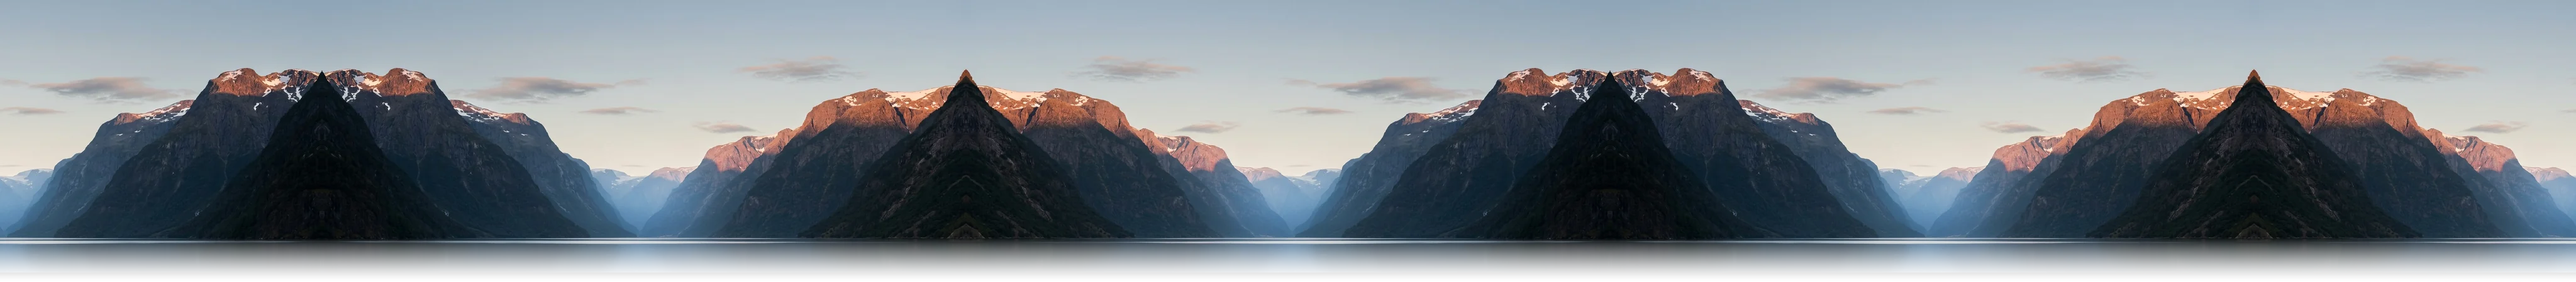
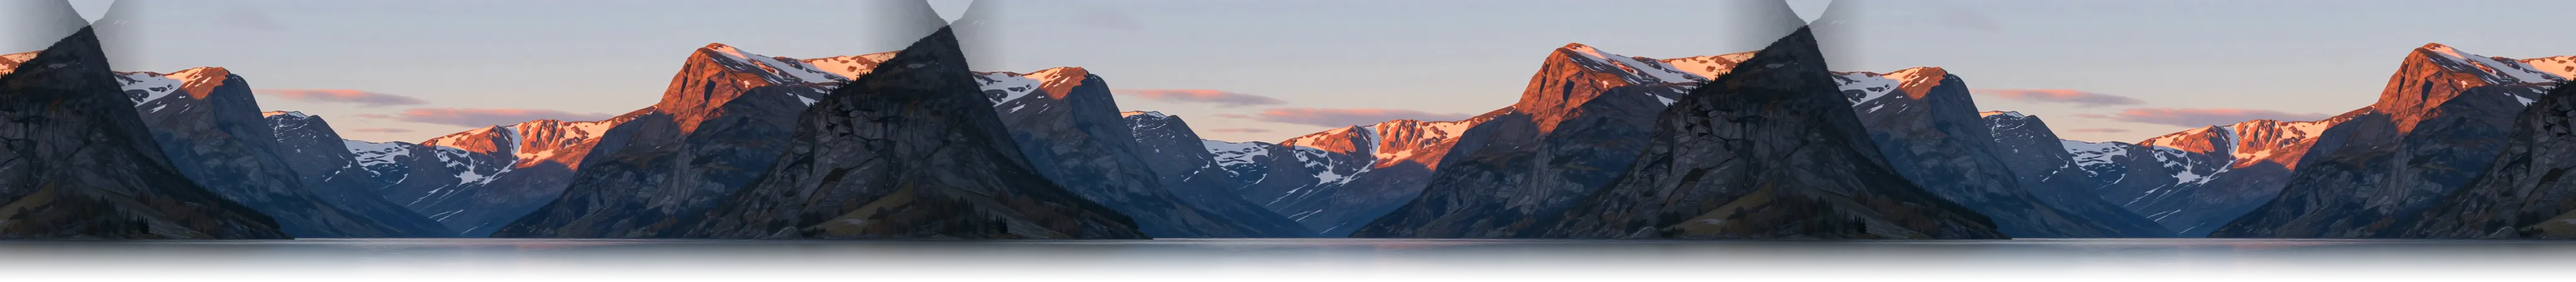
Fiordo pintado con el estilo de los héroes, con suelo y agua pintados en 3D (0.98.0) (#108)
Claude-Session: https://claude.ai/code/session_01YU6HPKNqDAini2Aa6w3kXk

diff --git a/src/carrera.js b/src/carrera.js
@@ -22,6 +22,8 @@ const SPRINT_M = 250;
 // - colores: lo que se pinta mientras cargan las imágenes y las partes que no son imagen (agua, tierra).
 // El fiordo (v0.62.0) y la laguna (v0.64.0) ya no salen de Blender: panorama, costa y piezas son imágenes realistas
 // generadas aparte, recortadas del fondo magenta y montadas con las mismas medidas (prompts en docs/PAISAJES_REALISTAS.md).
+// Desde la 0.98.0 el fiordo está pintado con el mismo motor y estilo que los héroes, y su vista 3D lleva suelo y agua
+// pintados (suelo3d y aguaTextura3d, ver franjas3d) en lugar de colores planos.
 export const PAISAJES = {
   fiordo: {
     nombre: 'Fiordo nórdico',
@@ -30,6 +32,9 @@ export const PAISAJES = {
     miniatura: 'assets/carrera/fiordo_mini.webp',
     panorama: { src: 'assets/carrera/fiordo.webp', horizonte: 379 },
     costa: 'assets/carrera/costa.webp',
+    // Texturas pintadas del suelo de las orillas y del agua de la vista 3D (m = metros que cubre cada repetición)
+    suelo3d: { src: 'assets/carrera/fiordo_suelo.webp', m: 8 },
+    aguaTextura3d: { src: 'assets/carrera/fiordo_agua.webp', m: 10 },
     orilla: {
       src: 'assets/carrera/orilla.webp',
       piezas: {
@@ -298,6 +303,8 @@ function coloreada(im, filtro) {
   porFiltro.set(filtro, copia);
   return copia;
 }
+// La imagen con el filtro de color de la variante ya aplicado (o la misma si no hay filtro o no se puede).
+const conTinte = (im) => (im && paisaje.filtro ? coloreada(im, paisaje.filtro) || im : im);
 function conFiltro(ctx, im, dibujar) {
   if (!paisaje.filtro || !('filter' in ctx)) { dibujar(im); return; }
   const copia = coloreada(im, paisaje.filtro);
@@ -306,6 +313,85 @@ function conFiltro(ctx, im, dibujar) {
   ctx.filter = paisaje.filtro;
   dibujar(im);
   ctx.filter = antes;
+}
+// Pinta una textura sobre el plano del agua o del suelo en perspectiva, en franjas de profundidad: cada franja es un
+// trapecio relleno con un patrón cuya transformación copia la escala de esa profundidad. ~26 franjas por zona.
+const patrones = new WeakMap();
+function franjas3d(ctx, P, camZ, tex, metros, lado, ancho, alto, cx, fx) {
+  let pat = patrones.get(tex);
+  if (!pat) { pat = ctx.createPattern(tex, 'repeat'); patrones.set(tex, pat); }
+  if (!pat || !pat.setTransform || typeof DOMMatrix === 'undefined') return;
+  const tw = tex.naturalWidth || tex.width;
+  const th = tex.naturalHeight || tex.height;
+  ctx.fillStyle = pat;
+  let z0 = camZ + 1.2;
+  // Solo hasta 140 m: más lejos la bruma lo tapa y basta el color de fondo. Franjas cada vez más largas (×1,5).
+  const hasta = camZ + 140;
+  while (z0 < hasta) {
+    const z1 = Math.min(hasta, camZ + (z0 - camZ) * 1.5 + 0.6);
+    const a = P(0, z0);
+    const b = P(0, z1);
+    if (!a || !b) break;
+    const zm = (z0 + z1) / 2;
+    const m = P(0, zm);
+    const sx = (fx / m.d) * (metros / tw);
+    const sy = -((a.y - b.y) / (z1 - z0)) * (metros / th);
+    pat.setTransform(new DOMMatrix([sx, 0, 0, sy, cx, m.y - sy * ((zm / metros) * th)]));
+    ctx.beginPath();
+    if (lado) {
+      const ia = P(lado.borde, z0);
+      const ib = P(lado.borde, z1);
+      const fuera = lado.s < 0 ? Math.min(0, ia.x) - 2 : Math.max(ancho, ia.x) + 2;
+      ctx.moveTo(ia.x, a.y + 1); ctx.lineTo(ib.x, b.y); ctx.lineTo(fuera, b.y); ctx.lineTo(fuera, a.y + 1);
+    } else {
+      ctx.rect(0, b.y, ancho, a.y - b.y + 1);
+    }
+    ctx.fill();
+    z0 = z1;
+  }
+}
+// Lienzo reutilizable para el plano del agua y el suelo de la vista 3D, a 1 píxel por punto.
+let plano3d = null;
+function lienzoPlano(ancho, alto) {
+  if (typeof document === 'undefined') return null;
+  const w = Math.max(1, Math.ceil(ancho));
+  const h = Math.max(1, Math.ceil(alto));
+  if (!plano3d) {
+    const lienzo = document.createElement('canvas');
+    plano3d = { lienzo, ctx: lienzo.getContext('2d') };
+  }
+  if (plano3d.lienzo.width !== w || plano3d.lienzo.height !== h) { plano3d.lienzo.width = w; plano3d.lienzo.height = h; }
+  return plano3d.ctx ? plano3d : null;
+}
+// Color medio del pie del panorama (las filas justo sobre el horizonte), para que la bruma lejana case con él.
+const pies = new WeakMap();
+function colorPie(im, horizonte) {
+  if (pies.has(im)) return pies.get(im);
+  let c = null;
+  try {
+    const l = document.createElement('canvas');
+    l.width = 64; l.height = 1;
+    const x = l.getContext('2d', { willReadFrequently: true });
+    x.drawImage(im, 0, horizonte - 24, im.naturalWidth || im.width, 20, 0, 0, 64, 1);
+    const d = x.getImageData(0, 0, 64, 1).data;
+    c = [0, 1, 2].map((k) => { let t = 0; for (let i = 0; i < 64; i++) t += d[i * 4 + k]; return Math.round(t / 64); });
+  } catch { c = null; }
+  pies.set(im, c);
+  return c;
+}
+// Suelo de las orillas: lejos se funde con la bruma del cielo y cerca se oscurece, para que no se vea como un
+// color plano junto a las imágenes pintadas.
+function degradadoSuelo(ctx, color, y0, alto) {
+  const g = ctx.createLinearGradient(0, y0, 0, alto);
+  g.addColorStop(0, mezclar(color, paisaje.colores.cielo3d[1], 0.55));
+  g.addColorStop(0.35, color);
+  g.addColorStop(1, mezclar(color, '#000000', 0.35));
+  return g;
+}
+function mezclar(a, b, t) {
+  const n = (c) => [1, 3, 5].map((i) => parseInt(c.slice(i, i + 2), 16));
+  const [x, y] = [n(a), n(b)];
+  return `rgb(${x.map((v, i) => Math.round(v + (y[i] - v) * t)).join(',')})`;
 }
 export function usarPaisaje(id) { paisaje = PAISAJES[id] || PAISAJES.fiordo; }
 
@@ -1740,11 +1826,18 @@ function pintar3d(c, { ctx, ancho, alto }, { botes, t, ritmo, referencias = [], 
   cielo.addColorStop(1, paisaje.colores.cielo3d[1]);
   ctx.fillStyle = cielo;
   ctx.fillRect(0, 0, ancho, horizonte);
-  const agua = ctx.createLinearGradient(0, horizonte, 0, alto);
+  const texAgua = conTinte(paisaje.aguaTextura3d && imagen(paisaje.aguaTextura3d.src));
+  const texSuelo = conTinte(paisaje.suelo3d && imagen(paisaje.suelo3d.src));
+  // Con texturas pintadas, el plano (agua, arena y suelo) se pinta en un lienzo aparte a 1 píxel por punto y se
+  // copia escalado: las franjas con patrón son lo caro y así se pinta 4 veces menos en un teléfono de densidad 2.
+  const plano = texAgua || texSuelo ? lienzoPlano(ancho, alto - horizonte) : null;
+  const pc = plano ? plano.ctx : ctx;
+  if (plano) pc.setTransform(1, 0, 0, 1, 0, -horizonte);
+  const agua = pc.createLinearGradient(0, horizonte, 0, alto);
   agua.addColorStop(0, paisaje.colores.agua3d[0]);
   agua.addColorStop(1, paisaje.colores.agua3d[1]);
-  ctx.fillStyle = agua;
-  ctx.fillRect(0, horizonte, ancho, alto - horizonte);
+  pc.fillStyle = agua;
+  pc.fillRect(0, horizonte, ancho, alto - horizonte);
   const fiordo = imagen(paisaje.panorama.src);
   if (fiordo) {
     // 360° del panorama = 2π·f píxeles, con el horizonte de la imagen sobre el del lienzo y el frente centrado.
@@ -1763,12 +1856,14 @@ function pintar3d(c, { ctx, ancho, alto }, { botes, t, ritmo, referencias = [], 
     ctx.lineTo(ancho, horizonte);
     ctx.fill();
   }
+  // Agua pintada en perspectiva (franjas con la textura repetida) cuando el paisaje la tiene.
+  if (texAgua) franjas3d(pc, P, camZ, texAgua, paisaje.aguaTextura3d.m, null, ancho, alto, cx, fx);
   // Reflejo del cielo cerca del horizonte
-  const reflejo = ctx.createLinearGradient(0, horizonte, 0, horizonte + alto * 0.12);
+  const reflejo = pc.createLinearGradient(0, horizonte, 0, horizonte + alto * 0.12);
   reflejo.addColorStop(0, `rgba(${paisaje.colores.reflejo},0.12)`);
   reflejo.addColorStop(1, `rgba(${paisaje.colores.reflejo},0)`);
-  ctx.fillStyle = reflejo;
-  ctx.fillRect(0, horizonte, ancho, alto * 0.12);
+  pc.fillStyle = reflejo;
+  pc.fillRect(0, horizonte, ancho, alto * 0.12);
 
   // Orillas (franjas a los lados del canal) con arena en el borde
   const lejos = 400;
@@ -1780,18 +1875,31 @@ function pintar3d(c, { ctx, ancho, alto }, { botes, t, ritmo, referencias = [], 
     const a2 = P(borde + s * 0.8, camZ + 1.2);
     if (!a || !b || !a2) continue;
     // Se usan los puntos proyectados de verdad: con la cámara alta el borde cercano cae muy por debajo del lienzo.
-    ctx.fillStyle = paisaje.colores.arena3d;
-    ctx.beginPath();
-    ctx.moveTo(a.x, a.y); ctx.lineTo(b.x, b.y); ctx.lineTo(a2.x, a2.y); ctx.fill();
+    pc.fillStyle = degradadoSuelo(pc, paisaje.colores.arena3d, b.y, alto);
+    pc.beginPath();
+    pc.moveTo(a.x, a.y); pc.lineTo(b.x, b.y); pc.lineTo(a2.x, a2.y); pc.fill();
     const lado = s < 0 ? Math.min(0, a2.x) : Math.max(ancho, a2.x);
-    ctx.fillStyle = paisaje.colores.tierra3d;
-    ctx.beginPath();
-    ctx.moveTo(lado, Math.max(alto, a2.y));
-    ctx.lineTo(a2.x, a2.y);
-    ctx.lineTo(b.x, b.y);
-    ctx.lineTo(lado, b.y);
-    ctx.fill();
+    pc.fillStyle = degradadoSuelo(pc, paisaje.colores.tierra3d, b.y, alto);
+    pc.beginPath();
+    pc.moveTo(lado, Math.max(alto, a2.y));
+    pc.lineTo(a2.x, a2.y);
+    pc.lineTo(b.x, b.y);
+    pc.lineTo(lado, b.y);
+    pc.fill();
+    if (texSuelo) franjas3d(pc, P, camZ, texSuelo, paisaje.suelo3d.m, { borde: borde + s * 0.8, s }, ancho, alto, cx, fx);
   }
+  // Bruma sobre el suelo y el agua lejanos: une las texturas con el pie del panorama.
+  if (plano) {
+    const bruma = pc.createLinearGradient(0, horizonte, 0, horizonte + (alto - horizonte) * 0.35);
+    const [r, g, b] = (fiordo && colorPie(conTinte(fiordo), paisaje.panorama.horizonte))
+      || [1, 3, 5].map((i) => parseInt(paisaje.colores.cielo3d[1].slice(i, i + 2), 16));
+    bruma.addColorStop(0, `rgba(${r},${g},${b},0.85)`);
+    bruma.addColorStop(1, `rgba(${r},${g},${b},0)`);
+    pc.fillStyle = bruma;
+    pc.fillRect(0, horizonte, ancho, (alto - horizonte) * 0.35);
+  }
+
+  if (plano) ctx.drawImage(plano.lienzo, 0, 0, plano.lienzo.width, plano.lienzo.height, 0, horizonte, ancho, alto - horizonte);
 
   // Olas
   if (!sinMovimiento) {

diff --git a/sw.js b/sw.js
@@ -15,7 +15,8 @@ const HEROES = CLASES.flatMap((c) => RANGOS.flatMap((r) => [`assets/heroes/${c}_
 // los rivales. Cada paisaje comprado (~70-200 KB) se descarga al comprarlo y al abrir la app, con el mensaje
 // «precargar» (ver precargarRecursos en src/pantallas/heroe.js); sin él se dibujan las formas sencillas.
 const MINIATURAS = ['fiordo', 'laguna', 'canon', 'otono', 'cerezos', 'glaciar', 'mediterraneo'].map((p) => `assets/carrera/${p}_mini.webp`);
-const PAISAJE = ['assets/carrera/fiordo.webp', 'assets/carrera/orilla.webp', 'assets/carrera/costa.webp', ...MINIATURAS,
+const PAISAJE = ['assets/carrera/fiordo.webp', 'assets/carrera/orilla.webp', 'assets/carrera/costa.webp',
+  'assets/carrera/fiordo_suelo.webp', 'assets/carrera/fiordo_agua.webp', ...MINIATURAS,
   'assets/carrera/rival_vikingo.webp'];
 // Los vídeos de la vista realista (~1,2 MB) son de una clase: no se precargan al instalar. La app los pide con un
 // mensaje «precargar» cuando tu héroe es de esa clase (ver src/app.js).

diff --git a/src/version.js b/src/version.js
@@ -1,2 +1,2 @@
 // Versión de la app: la misma que la caché del service worker (sw.js). Súbela al publicar cambios.
-export const VERSION = '0.97.0';
+export const VERSION = '0.98.0';

diff --git a/tools/paisaje-pintado/piezas.py b/tools/paisaje-pintado/piezas.py
@@ -1,0 +1,53 @@
+from PIL import Image
+import numpy as np, colorsys
+im=np.asarray(Image.open('/root/sd/out/piezas.png').convert('RGB')).astype(np.float32)
+bg=np.median(np.concatenate([im[:8].reshape(-1,3),im[-8:].reshape(-1,3),im[:,:8].reshape(-1,3)]),axis=0)
+print('fondo',bg)
+d=np.sqrt(((im-bg)**2).sum(-1))
+alpha=np.clip((d-60)/50,0,1)
+# quitar el tinte magenta de los bordes
+sp=im.copy(); g=sp[...,1]; lim=np.maximum(sp[...,0],sp[...,2])
+m=(1-alpha)[...,None]*0.0
+mx=np.minimum(sp[...,0],sp[...,2]); exceso=np.clip(mx-g,0,None)
+w=(alpha<0.98)
+sp[...,0]-=exceso*1.0; sp[...,2]-=exceso*1.0
+rgba=np.dstack([sp.clip(0,255),alpha*255]).astype(np.uint8)
+I=Image.fromarray(rgba,'RGBA')
+objs={}
+names=[['abeto1','abeto2','abedul'],['casa','roca','juncos']]
+for r in range(2):
+  for c in range(3):
+    cell=rgba[r*520:(r+1)*520 if r==0 else 768, c*256:(c+1)*256]
+    ys,xs=np.where(cell[...,3]>40)
+    box=(c*256+xs.min(), r*520+ys.min(), c*256+xs.max()+1, r*520+ys.max()+1)
+    cr=np.asarray(I.crop(box)).copy()
+    import cv2
+    n,lab,st,_=cv2.connectedComponentsWithStats((cr[...,3]>20).astype(np.uint8),8)
+    if n>1:
+      big=1+int(np.argmax(st[1:,cv2.CC_STAT_AREA]))
+      keep=np.isin(lab,[i for i in range(1,n) if st[i,cv2.CC_STAT_AREA]>=0.02*st[big,cv2.CC_STAT_AREA]])
+      cr[...,3]=np.where(keep,cr[...,3],0)
+    objs[names[r][c]]=Image.fromarray(cr,'RGBA')
+# abedul verde: girar el tono del follaje
+b=np.asarray(objs['abedul']).astype(np.float32)/255
+import colorsys
+hsv=np.array(Image.fromarray((b[...,:3]*255).astype(np.uint8)).convert('HSV')).astype(np.int32)
+hsv[...,0]=np.where(hsv[...,1]>80,(hsv[...,0]+30)%256,hsv[...,0])
+v=np.array(Image.fromarray(hsv.astype(np.uint8),'HSV').convert('RGB'))
+v=(v*0.8+np.array(Image.fromarray(v).convert('L'))[...,None]*0.2).astype(np.uint8)
+objs['abedul_verde']=Image.fromarray(np.dstack([v,(b[...,3]*255).astype(np.uint8)]),'RGBA')
+P={'pino_alto':('abeto1',0,0,410,825,.5,.97),'pino_medio':('abeto2',412,0,332,601,.5,.97),'abedul':('abedul',746,0,176,575,.5,.985),
+ 'abedul_verde':('abedul_verde',0,827,142,460,.5,.985),'pino_bajo':('abeto1',144,827,213,412,.5,.965),'casa':('casa',359,827,529,334,.5,.9),
+ 'roca_grande':('roca',0,1289,355,158,.5,.82),'juncos':('juncos',357,1289,84,102,.5,.95),'roca':('roca',443,1289,211,96,.5,.86)}
+at=Image.new('RGBA',(1024,1447),(0,0,0,0))
+for k,(o,x,y,W,H,px,py) in P.items():
+  ob=objs[o]
+  if k=='roca_grande': ob=ob.resize((int(ob.width*1.8),ob.height))
+  if k in('abedul','abedul_verde'): ob=ob.resize((int(ob.width*0.7),ob.height))
+  if k=='roca': ob=ob.resize((int(ob.width*1.6),int(ob.height*0.8)))
+  s=min(W/ob.width, H*py/ob.height)
+  ob=ob.resize((max(1,int(ob.width*s)),max(1,int(ob.height*s))),Image.LANCZOS)
+  ox=x+int(W*px-ob.width/2); oy=y+int(H*py)-ob.height
+  at.alpha_composite(ob,(ox,oy))
+at.save('/root/sd/montaje/orilla.webp',quality=74)
+prev=Image.new('RGBA',at.size,(40,60,50,255)); prev.alpha_composite(at); prev.convert('RGB').resize((512,723)).save('/root/sd/montaje/orilla_prev.png')

diff --git a/tools/paisaje-pintado/panorama.py b/tools/paisaje-pintado/panorama.py
@@ -1,0 +1,15 @@
+from PIL import Image
+import numpy as np
+im=np.asarray(Image.open('/root/sd/out/panorama.png').convert('RGB')).astype(np.float32)
+h,w,_=im.shape; B=200
+# hacer repetible: mezclar el final con el principio
+a=np.linspace(0,1,B)[None,:,None]
+t=im[:, :w-B].copy()
+t[:, :B]=im[:, :B]*a+im[:, w-B:]*(1-a)
+tile=np.concatenate([t,t,t],axis=1)
+o=Image.fromarray(tile.clip(0,255).astype(np.uint8)).resize((4096,449),Image.LANCZOS)
+o.save('/root/sd/montaje/fiordo.webp',quality=80)
+o.resize((1024,112)).save('/root/sd/montaje/pan_preview.png')
+al=np.load('/root/sd/montaje/alpha_fiordo.npy')
+rgba=np.dstack([np.asarray(o), np.repeat(al[:,None],4096,axis=1).astype(np.uint8)])
+Image.fromarray(rgba,'RGBA').save('/root/sd/montaje/fiordo.webp',quality=80)

diff --git a/tools/paisaje-pintado/texturas.py b/tools/paisaje-pintado/texturas.py
@@ -1,0 +1,12 @@
+from PIL import Image
+import numpy as np
+def sin_costura(im):
+  a=np.asarray(im).astype(np.float32); h,w,_=a.shape
+  s=np.roll(np.roll(a,h//2,0),w//2,1)
+  y=np.abs(np.linspace(-1,1,h))[:,None]; x=np.abs(np.linspace(-1,1,w))[None,:]
+  m=np.clip((1-np.maximum(x,y))*3,0,1)[...,None]
+  return Image.fromarray((a*m+s*(1-m)).clip(0,255).astype(np.uint8))
+s=Image.open('/root/sd/out/suelo.png').convert('RGB')
+sin_costura(s).resize((256,256),Image.LANCZOS).save('/root/sd/montaje/fiordo_suelo.webp',quality=78)
+a=Image.open('/root/sd/out/agua.png').convert('RGB').crop((0,200,512,512)).resize((512,512))
+sin_costura(a).resize((256,256),Image.LANCZOS).save('/root/sd/montaje/fiordo_agua.webp',quality=78)

diff --git a/tools/paisaje-pintado/costa.py b/tools/paisaje-pintado/costa.py
@@ -1,0 +1,7 @@
+from PIL import Image
+import numpy as np
+im=np.asarray(Image.open('/root/sd/out/costa.png').convert('RGB'))[:240].astype(np.float32)
+h,w,_=im.shape; B=120
+a=np.linspace(0,1,B)[None,:,None]
+t=im[:, :w-B].copy(); t[:, :B]=im[:, :B]*a+im[:, w-B:]*(1-a)
+Image.fromarray(t.astype(np.uint8)).resize((1536,345),Image.LANCZOS).save('/root/sd/montaje/costa.webp',quality=80)

diff --git a/docs/PAISAJES_REALISTAS.md b/docs/PAISAJES_REALISTAS.md
@@ -159,3 +159,20 @@ Photorealistic top-down orthographic photo of very clear shallow tropical lagoon
 Photorealistic top-down orthographic photo of a thin irregular line of white sea foam where gentle waves wash onto white sand, the foam line running horizontally across the whole image, lacy bubbles and thin wet sand film, isolated on a plain solid flat black background (#000000) above and below the foam, no sand texture outside the foam. Seamless horizontally tileable. No text, no watermark.
 ```
 (Genera 3 versiones con la misma frase para la animación.)
+
+# Fiordo pintado (0.98.0)
+
+Desde la 0.98.0 el fiordo se pinta con el mismo motor y estilo que los héroes: stable-diffusion.cpp con Z-Image Turbo
+(Q8_0), en CPU, ~25 min por imagen. Los guiones están en `tools/paisaje-pintado/`:
+
+| Guion | Qué hace |
+|---|---|
+| `gen.sh` | Genera el panorama (1344×448), la costa 2D (1024×320) y una lámina de piezas sobre magenta (768×768) |
+| `gen2.sh` | Genera las texturas de suelo y agua (512×512) |
+| `panorama.py` | Hace el panorama repetible, lo lleva a 4096×449 y le copia la transparencia bajo el horizonte del original |
+| `costa.py` | Recorta la orilla, la hace repetible y la lleva a 1536×345 |
+| `piezas.py` | Quita el magenta, separa las piezas y monta el atlas de orilla con los mismos recortes, pies y alturas |
+| `texturas.py` | Hace las texturas repetibles en los dos ejes y las deja a 256×256 |
+
+Prefijo de estilo de todas: `Semi-realistic detailed digital painting, realistic proportions, painterly rendering,
+crisp dark outline, high quality fantasy RPG art.` Para los demás paisajes se cambia solo la escena.

diff --git a/CHANGELOG.md b/CHANGELOG.md
@@ -2,6 +2,15 @@
 
 Lo que cambia en cada versión de Rower. La versión de la app vive en `src/version.js`; esta lista empieza siempre por esa versión (lo comprueba `pruebas/version.test.mjs`).
 
+## 0.98.0 · 2026-11-22
+
+El fiordo, repintado con el mismo estilo que los héroes.
+
+- **Paisaje pintado.** Montañas al atardecer, pinos, abedules, cabaña, rocas y juncos pintados con el mismo motor y la misma mano que los retratos nuevos. El panorama ya no se ve espejado.
+- **Suelo y agua pintados en la vista 3D.** Las orillas tienen pasto con musgo y el canal tiene ondas, en perspectiva y moviéndose con la carrera, en lugar de colores planos. A lo lejos se funden con una bruma del color del pie de las montañas.
+- **Mismo rendimiento.** El suelo y el agua se pintan en un lienzo aparte a un píxel por punto; en la prueba con la CPU ×4 del teléfono de Ander la vista 3D se queda entre 24 y 30 cuadros por segundo.
+- Las variantes del fiordo (invierno, tormenta, aurora) tiñen también el suelo y el agua.
+
 ## 0.97.0 · 2026-11-22
 
 La app abre más rápido y las actualizaciones bajan solo lo que cambió.
